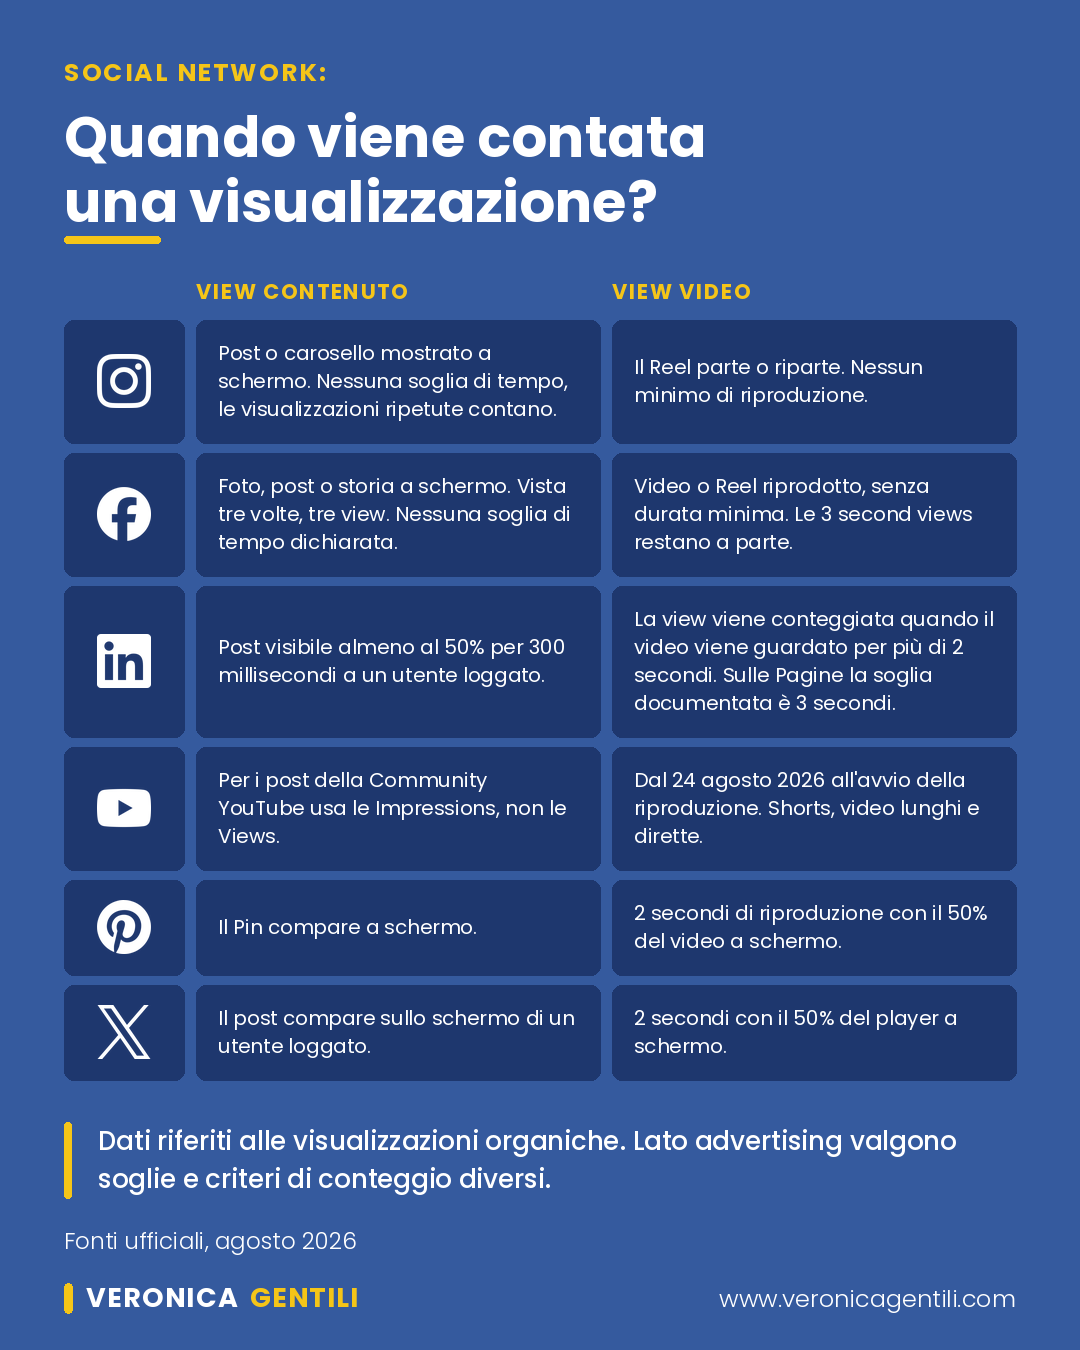
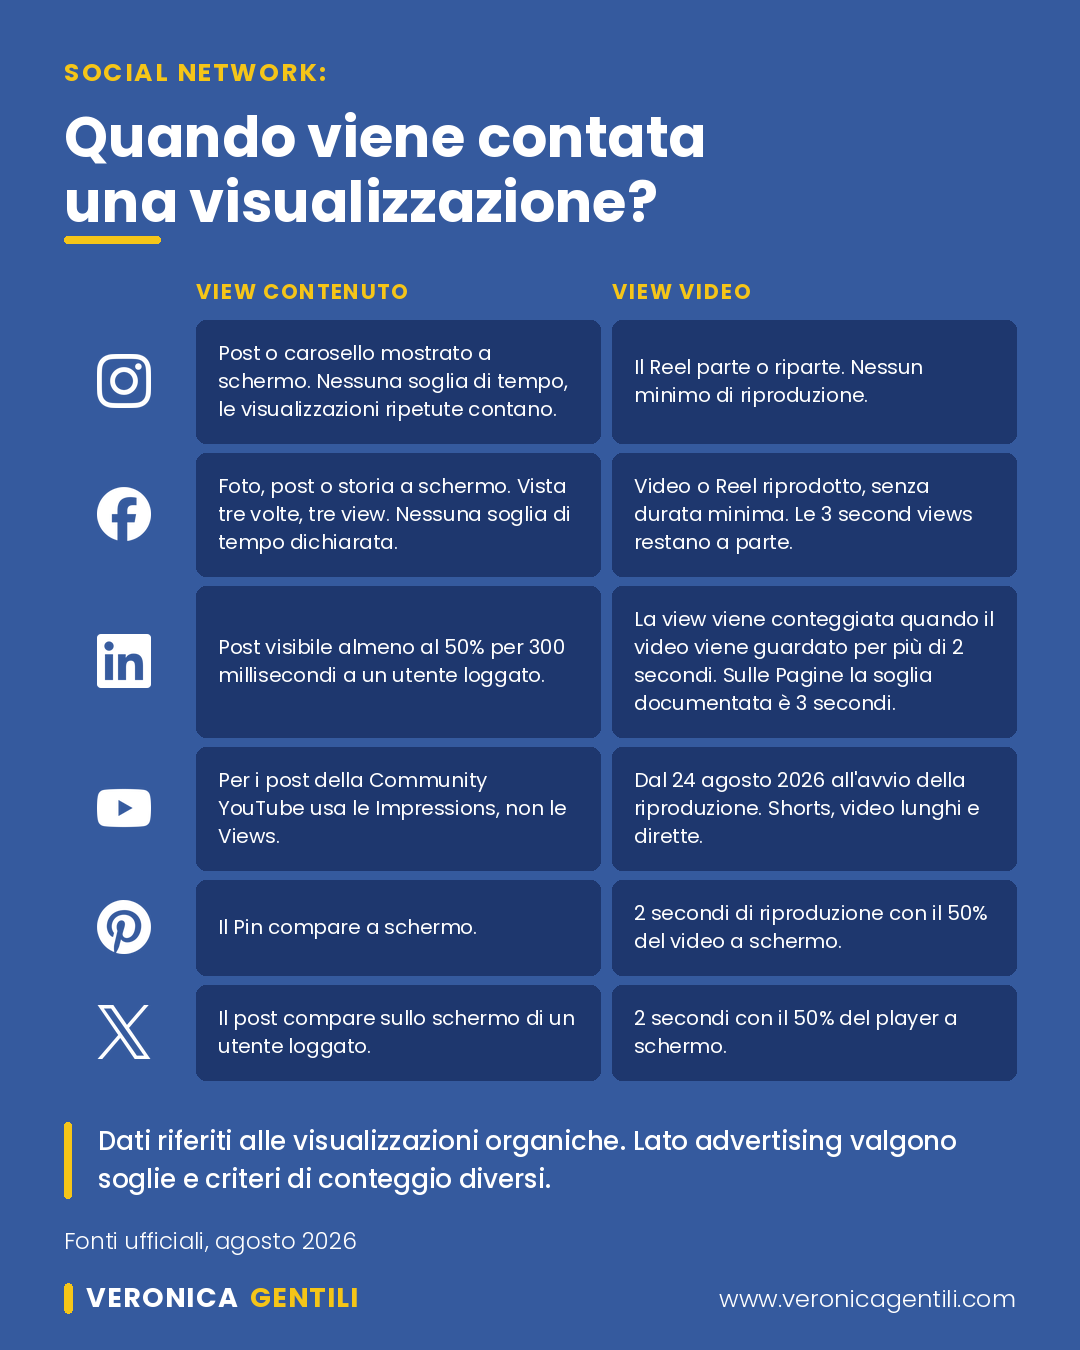
Toglie il box scuro dietro i loghi delle piattaforme
I loghi restano centrati nella colonna, direttamente sul fondo blu.

Claude-Session: https://claude.ai/code/session_015AprcKjpKNJkbQiwrdGUoa

Changed region(s): [[0.0611, 0.2178, 0.1833, 0.8089]]

diff --git a/infografiche/visualizzazioni-social/genera_infografica.py b/infografiche/visualizzazioni-social/genera_infografica.py
@@ -168,9 +168,7 @@ for size in range(23, 14, -1):
 
 row_y = ROWS_TOP
 for (slug, _, _), (l2, l3), rh in zip(ROWS, wrapped, heights):
-    # box piattaforma con logo centrato
-    draw.rounded_rectangle([(PLAT_X0, row_y), (PLAT_X1, row_y + rh)],
-                           radius=10, fill=BLU_DARK)
+    # logo centrato sul fondo, senza box
     colore = COLORI_BRAND[slug] if VARIANTE == "colore" else "#FFFFFF"
     icona = load_icon(slug, ICON_SIZE, colore)
     img.paste(icona,
